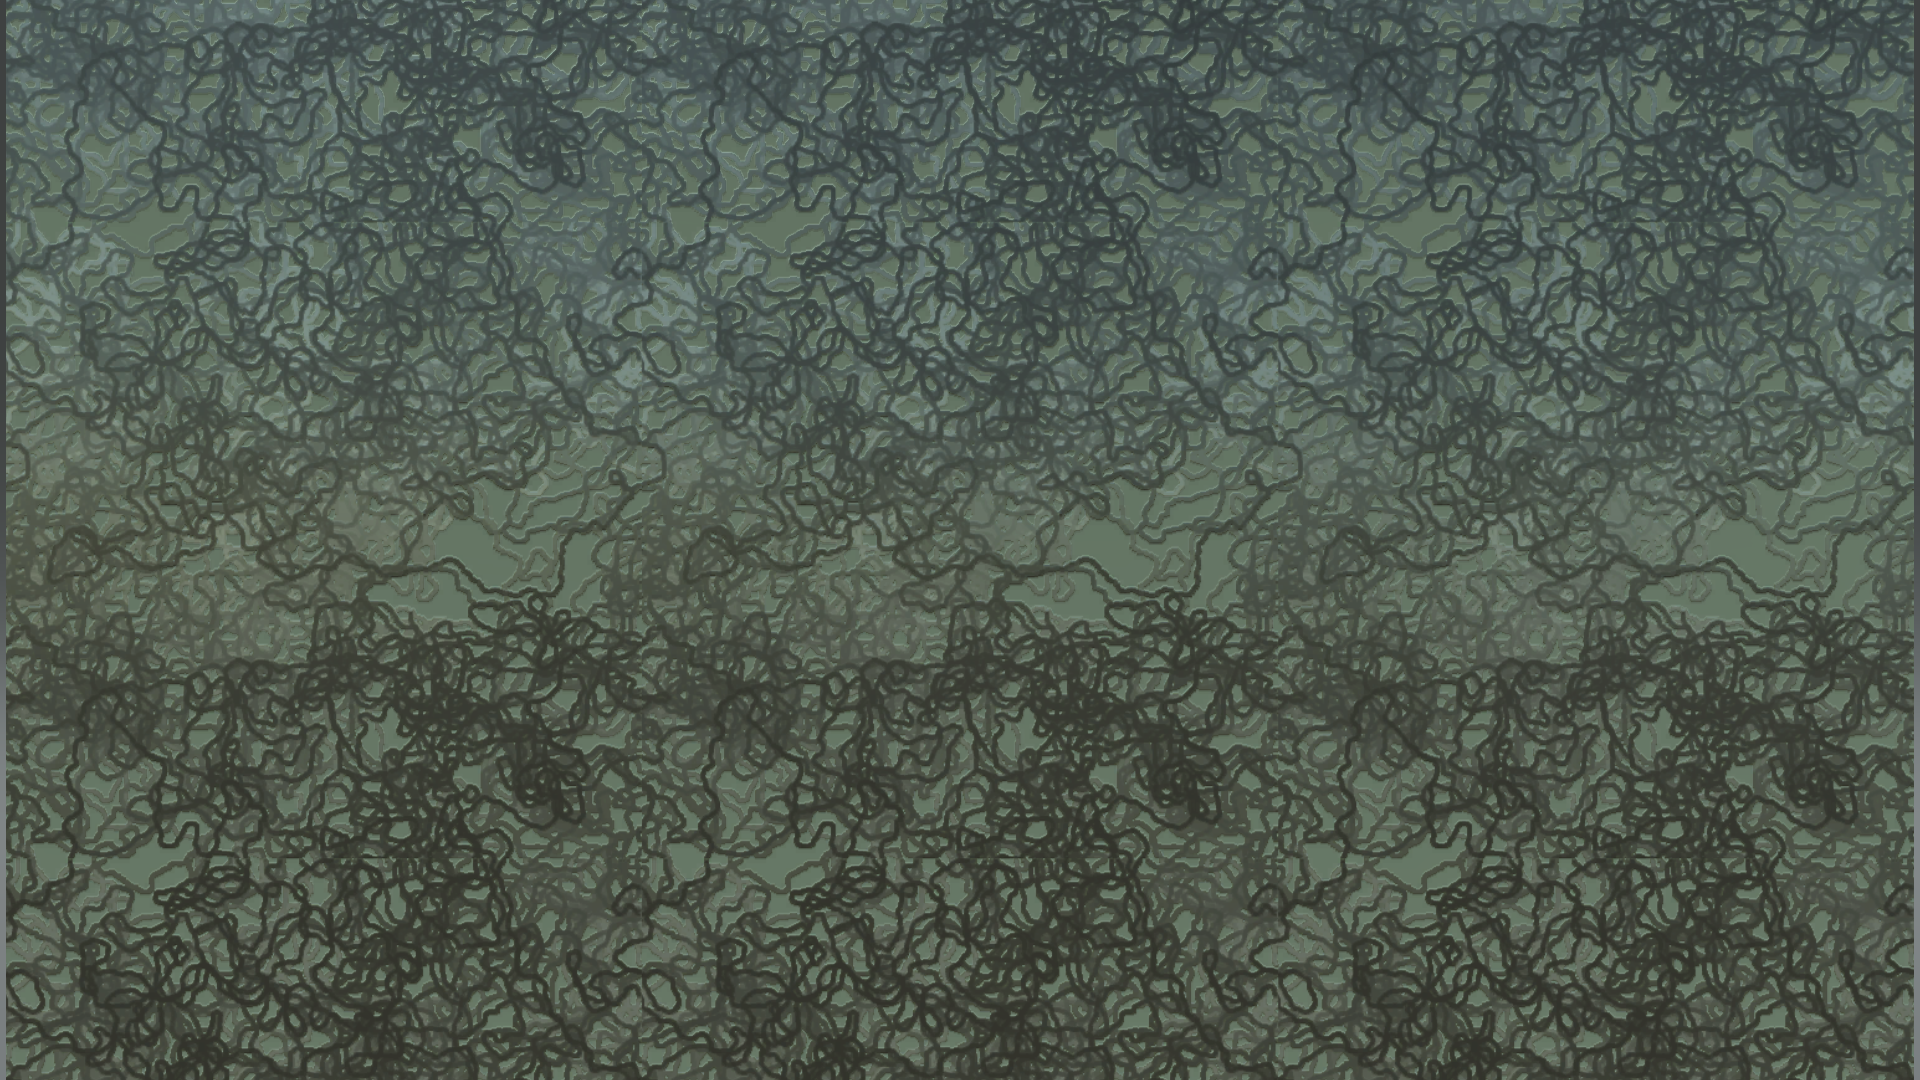
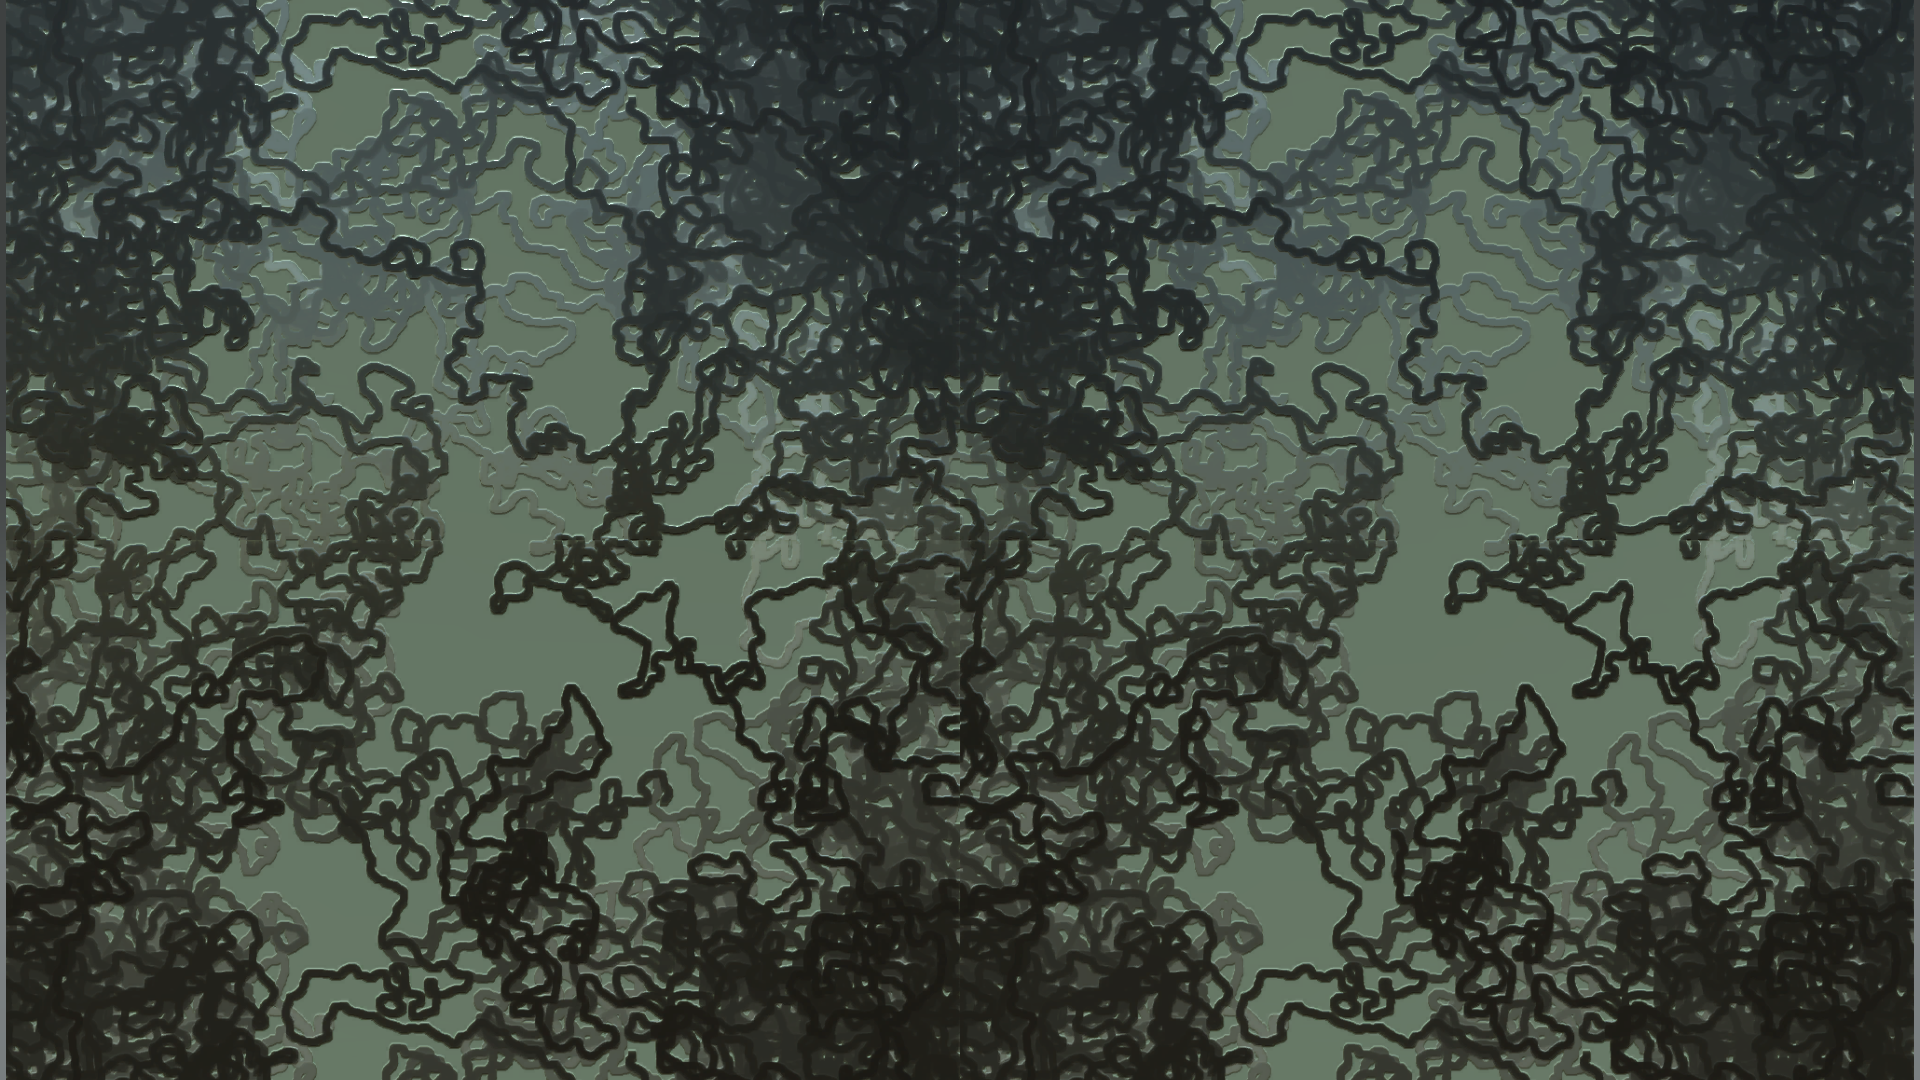
blog post drafts

diff --git a/src/js/sketches/pollock.ts b/src/js/sketches/pollock.ts
@@ -3,12 +3,12 @@ import {Material} from '../pbr1';
 
 export default function draw(pbr: PBR) {
     const clear = new Material(0.5, 0.6, 0.5, 1.0, 0.0, 0.3, 0.0);
-    pbr.rect(0, 0, 512, 512, clear);
+    pbr.rect(0, 0, 1024, 1024, clear);
 
 
     // new Material(red, green, blue, transparency, metallic, smoothness, height, emission_red, emission_green, emission_blue)
     const paint1 = new Material(.8, .9, .9, .3, 0.2, 0.99, 0.1);
-    const paint2 = new Material(.8, .9, .9, .3, 0.2, 0.99, 0.2);
+    // const paint2 = new Material(.8, .9, .9, .3, 0.2, 0.99, 0.5);
 
 
     let a = 0;
@@ -16,29 +16,30 @@ export default function draw(pbr: PBR) {
     let x = 256;
     let y = 256;
 
-    for (let p = 0; p < 10; p++) {
-        x = random(0, 512);
-        y = random(0, 512);
+    for (let p = 0; p < 20; p++) {
+        x = random(0, 1024);
+        y = random(0, 1024);
         paint1.red *= .9;
         paint1.green *= .9;
         paint1.blue *= .9;
-        paint2.red *= .9;
-        paint2.green *= .9;
-        paint2.blue *= .9;
+        // paint2.red *= .9;
+        // paint2.green *= .9;
+        // paint2.blue *= .9;
         paint1.height += .01;
-        paint2.height += .01;
+        // paint2.height += .01;
 
+    
 
         for (let i = 0; i < 10000; i++) {
             x += Math.sin(a) * d;
             y += Math.cos(a) * d;
-            if (x > 512) x -= 512;
-            if (y > 512) y -= 512;
-            if (y < 0) y += 512;
-            if (x < 0) x += 512;
+            if (x > 1024) x -= 1024;
+            if (y > 1024) y -= 1024;
+            if (y < 0) y += 1024;
+            if (x < 0) x += 1024;
             a += random(-.5, .5);
-            pbr.rect(x - 1, y - 1, 4, 4, paint1);
-            pbr.rect(x, y, 2, 2, paint2);
+            pbr.rect(x - 2, y - 2, 8, 8, paint1);
+            // pbr.rect(x, y, 4, 4, paint2);
         }
     }
 

diff --git a/docs/css/main.scss b/docs/css/main.scss
@@ -353,3 +353,52 @@ ul
         margin-top: 0;
     }
 }
+
+blockquote {
+    text-align: left;
+    position: relative;
+    p {
+        
+        font-size: 1.2em;
+    }
+    cite {
+        display: block;
+        font-style: normal;
+        font-size: .6em;
+        line-height: 1;
+
+    }
+    cite:before {
+        content: "— ";
+    }
+}
+
+
+
+@mixin aspect-ratio($width, $height) {
+  position: relative;
+  &:before {
+    display: block;
+    content: "";
+    width: 100%;
+    padding-top: ($height / $width) * 100%;
+  }
+  > .content {
+    position: absolute;
+    top: 0;
+    left: 0;
+    right: 0;
+    bottom: 0;
+  }
+}
+
+.sixteen-nine {
+     @include aspect-ratio(16, 9);
+     img {
+        position: absolute;
+        top: 0;
+        width: 100%;
+        height: 100%;
+        object-fit: cover;
+     }
+}

diff --git a/src/app.ts b/src/app.ts
@@ -1,7 +1,7 @@
 import PBR from './js/pbr1';
-import draw from './js/sketches/brick_complex1'
+import draw from './js/sketches/pollock'
 
-var pbr = new PBR(undefined, 512, 512, 8);
+var pbr = new PBR(undefined, 1024, 1024, 4);
 
 draw(pbr);
 

diff --git a/docs/_posts/2017-06-08-poc1.md b/docs/_posts/2017-06-08-poc1.md
@@ -1,24 +1,111 @@
 ---
 layout: post
-title:  "First Proof of Concept"
+title:  "Hello, PBR5!"
 date:   2017-05-26 21:12:54 -0500
 categories: shaders
 author: Justin Bakse
+poster_image: /media/hello_pbr5/pollock_height.png
 ---
 
-[a look at the first version of the libary, very minimal, but lets you start sketching with additional info]
 
-What can it do, api comands.
+> It's always best to start at the beginning.
+> <cite>Glinda, Good Witch of the North</cite>
 
-What is working.
 
-Biggest Pain points, priorities for next steps.
+Version .1 of PBR5 is done. It is very minimal still—just a couple very basic features—but is enough to start making some sketches and test the core idea. Talia used this version of the library to make a [pretty nice brick texture]({{ site.baseurl }}{% link _posts/2017-06-13-bricks.md %}) and I made a sketch that looks something like paint splatters.
 
-Rethinking anything?  (Transparency?)
 
-Show some RGB vs RGB + sketches
+<div class="figures">
+    <figure>
+        <div class="sixteen-nine">
+            <img src="{{site.baseurl}}/media/bricks/bricks_complex.png">
+        </div>
+        <figcaption>
+        Procedurally generated bricks.
+        </figcaption>
+    </figure>
+    <figure>
+        <img src="{{site.baseurl}}/media/hello_pbr5/pollock_pbr.png">
+        <figcaption>
+        Javascript paint splatters.
+        </figcaption>
+    </figure>
+</div>
 
-Pollock
-Talia's brick examples
+## Materials
+The most essential aspect of the library is the ability to define a full PBR material with base color, matallic, smoothness, and height channels. The `Material` class is used to do this. In the future, this class will likely also contain additional information, such as how each channel should be composited during drawing.
 
-Lets show something with multiple lighting scenarios.
+```javascript
+// describing a material with PBR channels
+let exampleMaterial = new Material(1.0, 0.0, 0.0, 1.0, 0.5, 0.5, 0.25);
+
+// or
+let exampleMaterial = new Material();
+exampleMaterial.red = 1.0;
+exampleMaterial.green = 0.0;
+exampleMaterial.blue = 0.0;
+exampleMaterial.transparency = 1.0;
+exampleMaterial.height = 0.5;
+exampleMaterial.metallic = 0.5;
+exampleMaterial.smoothness = 0.25;
+```
+
+## Drawing Rects
+For a material to be useful, you need to be able to draw with it. The `rect` function allows you to draw a simple rectangle. It takes parameters for the location and size of the rectangle, and the material to draw with.
+
+```javascript
+// drawing a rectangle
+pbr.rect(10, 10, 100, 25, exampleMaterial);
+```
+
+## Under the Hood
+When the PBR5 library is initialized, it creates a number of offscreen drawing buffers to store the base color, metallic + smoothness, and height information. These buffers are larger than the exported textures, allowing for anti-aliasing oversampling. The buffers are also high precision—they use 16-bit half-floats—allowing for high dynamic range drawing. The `pbr.rect()` function draws a rectangle into each of these buffers using the data in the material parameter. 
+
+## Exporting
+The library also provides methods for exporting the data channels as textures that can be used with the Unity game engine. Currently it exports textures for albedo, metallic+smoothness, and height. 
+
+
+<div class="figures">
+    <figure>
+        <img src="{{site.baseurl}}/media/hello_pbr5/pollock_albedo.png">
+        <figcaption>
+        Albedo
+        </figcaption>
+    </figure>
+    <figure>
+        <img src="{{site.baseurl}}/media/hello_pbr5/pollock_metallic.png">
+        <figcaption>
+        Metallic + Smoothness
+        </figcaption>
+    </figure>
+    <figure>
+        <img src="{{site.baseurl}}/media/hello_pbr5/pollock_height.png">
+        <figcaption>
+        Height
+        </figcaption>
+    </figure>
+</div>
+
+
+## Examples
+Even with only the ability to draw rectangles, the library already shows promise as a powerfull tool for created procedurally generated textures that work with a PBR rendering pipeline. 
+
+
+
+<div class="figures">
+    <figure>
+        <img src="{{site.baseurl}}/media/hello_pbr5/checker_pbr.png">
+        <figcaption>
+        An embossed checkerboard mapped onto a 3D cube.
+        </figcaption>
+    </figure>
+    <figure>
+        <div class="sixteen-nine">
+            TBD
+        </div>
+        <figcaption>
+        Another Example made with PBR5 v.1;
+        </figcaption>
+    </figure>
+</div>
+

diff --git a/docs/_posts/2017-05-19-hello-pbr5.md b/docs/_posts/2017-05-19-hello-pbr5.md
@@ -1,14 +1,18 @@
 ---
 layout: post
-title:  "Hello, PBR5"
+title:  "Introducing PBR5"
 date:   2017-05-19 21:12:54 -0500
 categories: pbr5
 author: Justin Bakse
+poster_image: /media/hello_pbr5/checker_pbr.png
 ---
+
+[This isn't a good title. Suggestions?]
+
 
 Most digital images—and most image authoring software—represent images as pixels that encode only the image’s color. These images do not describe material properties such as how metallic, smooth, or high each pixel is. These properties determine how a surface interacts with light and are important expressive aspects of traditional media. Procedurally generated images without these qualties often appear to “flat” and “lifeless” unless great effort is expended in creating detail and subtlety. 
 
-PBR5 is an experimental library for creating procedurally generated images with these extended material properties that can be used in a physically based rendering (PBR) pipeline. These images could be used to texture surfaces in realtime 3D graphics, games, and VR experiences. PBR images are especially effective in these contexts because they respond naturally to changes in lighting.
+To address this, we have begun building PBR5, an experimental library for creating procedurally generated images with these extended material properties. These images can be used in physically based rendering (PBR) pipelines to texture surfaces in realtime 3D graphics, games, and VR experiences. PBR images are especially effective in these contexts because they respond naturally to changes in lighting and point of view.
 
 <div class="figures">
     <figure>
@@ -25,7 +29,7 @@ PBR5 is an experimental library for creating procedurally generated images with 
 	</figure>
 </div>
 
-Using code to procedurally generate images is a powerful technique for exploring aesthetics and generating complex forms, but creating rich, life-like images with code is complex and often difficult. Becaise PBR rendering allows us simulate how light reacts with our images, many types of surfaces and textures much easier to express. 
+Using code to procedurally generate images is a powerful technique for exploring aesthetics and generating complex forms, but creating rich, life-like images with code is complex and often difficult. Because PBR rendering allows us simulate how light reacts with our images, many types of surfaces and textures much easier to express. This can benefit images in 2D contexts as well, bringing addtionnal richness and depth.
 
 <div class="figures">
     <figure>
@@ -42,8 +46,9 @@ Using code to procedurally generate images is a powerful technique for exploring
 	</figure>
 </div>
 
+The images above show how a 2D images might benefit from PBR post processing. Most notably, highlights and shadows reveal some thickness in the lines of "paint". You can also see some color variation picked up from the environmental lighting. 
 
-<!--THESE ARE TOO ZOOMED OUT, Lets crop these  down to 1920*.5]-->
+## Project Goals
 
 Our intial goal is to create a minimal but complete javascript library for procedurally generating images with a full set PBR properties.
 
@@ -54,7 +59,7 @@ Our intial goal is to create a minimal but complete javascript library for proce
 - **Height**  Height data allows for simulating lighting on bumps and dents.  
 - **Emission**  Emissive materials are sources of light themselves. They glow in the dark.  
 
-We are planning the following core features.
+**We are planning the following core features:**
 
 - Common drawing methods for drawing rectangles, ellipses, and lines
 - High dynamic range rendering
@@ -64,9 +69,10 @@ We are planning the following core features.
 - Image export as a texture set compatible with the Unity standard PBR shader
 - API and conceptual documentation
 
-We also plan to explore additional features useful when procedurally generating images.
+**We also plan to explore additional features useful when procedurally generating images:**
 
-- A web-based image viewer with specific channel and PBR views. 
-- Drawing with textured fills and edges.
-- Utility functions for working with random values.
+- A web-based image viewer with individual channel and combined PBR views
+- Drawing with textured fills and edges
+- Utility functions for working with random values
+- Support for tiled drawing
 

diff --git a/docs/_posts/2017-06-13-bricks.md b/docs/_posts/2017-06-13-bricks.md
@@ -4,6 +4,7 @@ title:  "Texturing a Brick Wall Without Hitting a Brick Wall"
 date:   2017-06-13 21:12:54 -0500
 categories: shaders
 author: Talia Cotton
+poster_image: /media/bricks/bricks_complex.png
 ---
 
 [Intro needs a little more reader orientation.]
